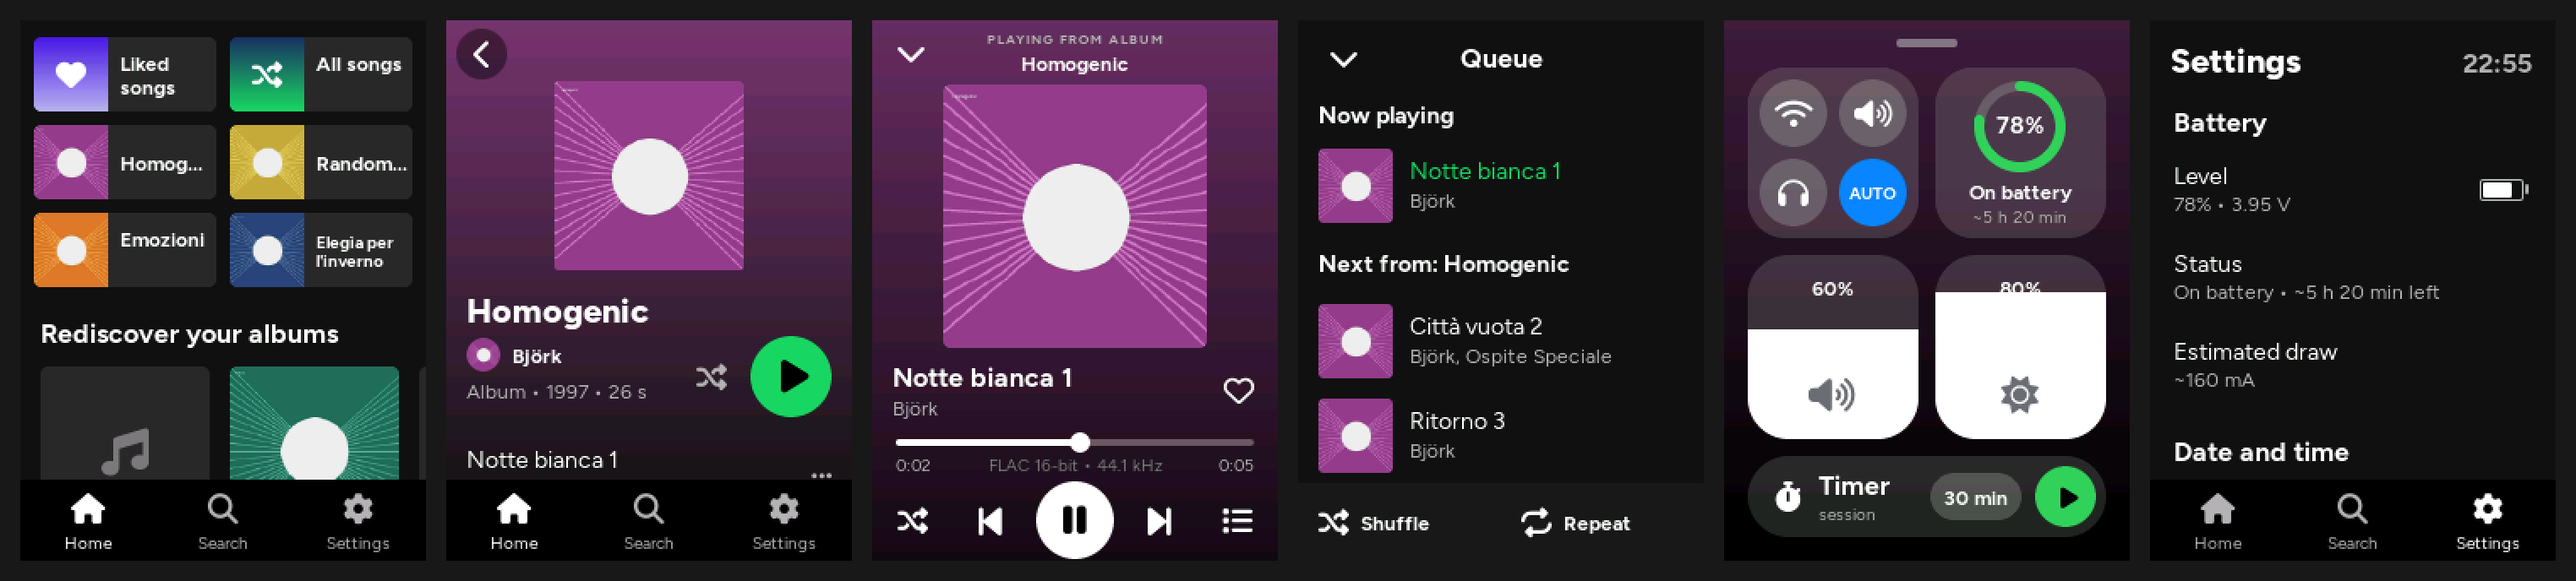
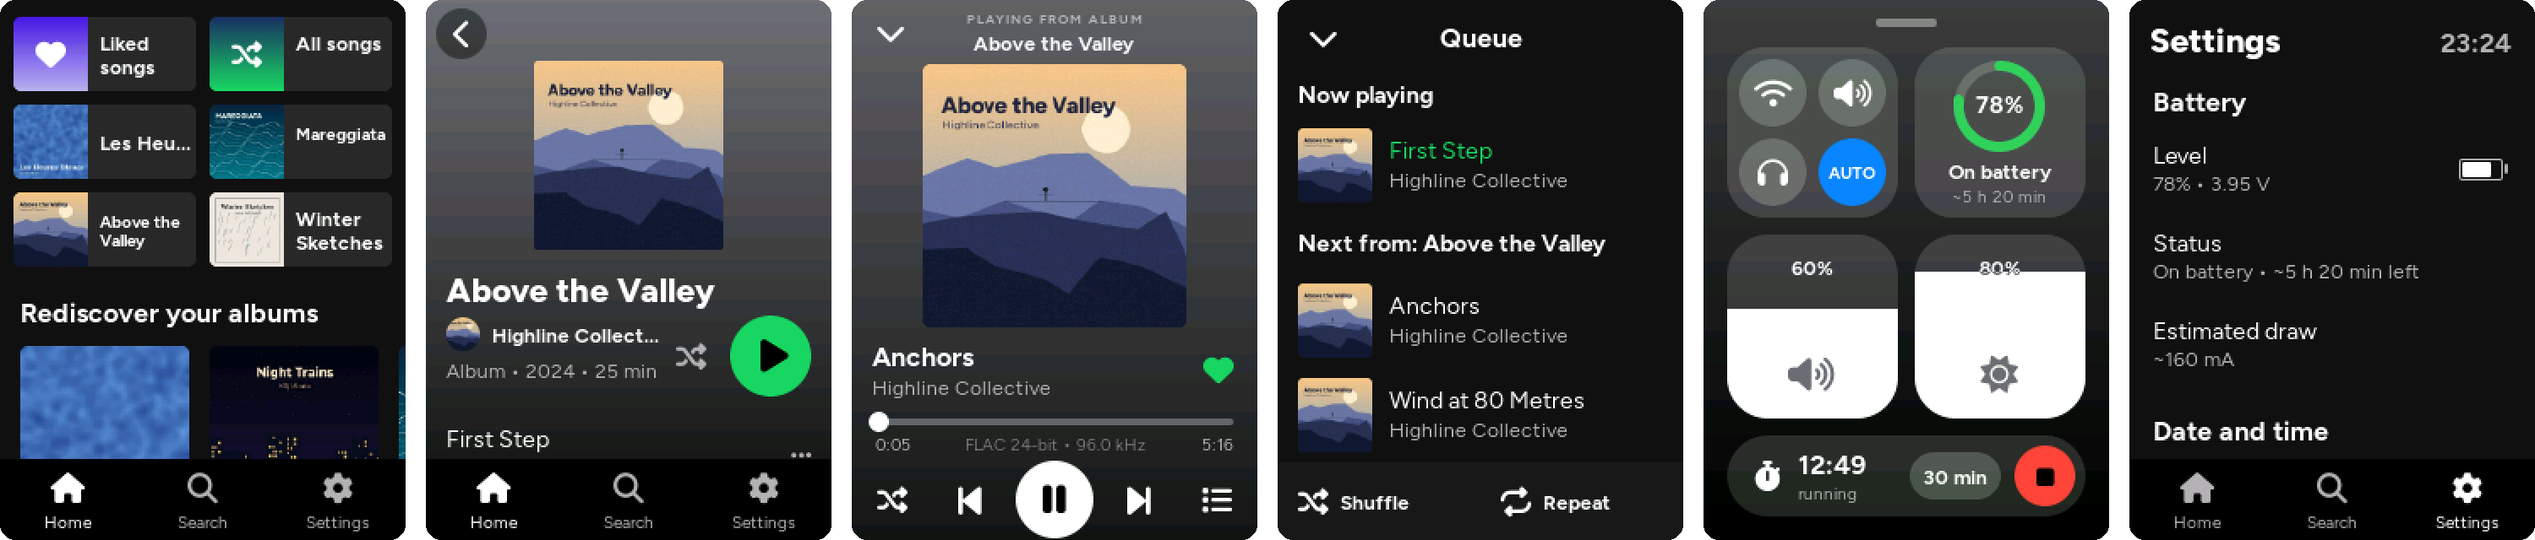
Docs: animated tour, player and web page screenshots
- docs/images/tour.gif: a 40 s tour of the player
- Player screenshots (browse, now playing, control center, transfer, timer)
  and web page screenshots (files, library, song editor, MusicBrainz, covers,
  playlists, phone), all with a made-up demo library
- README and wiki pages show them

Claude-Session: https://claude.ai/code/session_01WYQjV53YjHW77oDZ6A18Qb

diff --git a/docs/wiki/Web-Interface.md b/docs/wiki/Web-Interface.md
@@ -1,8 +1,12 @@
 The player has a small web server for managing the microSD card from a browser on your computer or phone: upload music, fix tags and covers, and make playlists.
 
+<img src="https://raw.githubusercontent.com/MrTartuf0/onda-flac-player/main/docs/images/web-library.png" alt="The Library tab">
+
 > The web page is in Italian for now. Below, each button is given as it appears on the page, with its meaning in brackets.
 
 ## Connecting
+
+<p align="center"><img src="https://raw.githubusercontent.com/MrTartuf0/onda-flac-player/main/docs/images/player-transfer.png" alt="File transfer on the player: on the home network, and as a hotspot with a QR code" width="480"></p>
 
 Open **Settings → File transfer** (or tap Wi-Fi in the control center).
 
@@ -17,6 +21,8 @@ Opening the page also sets the player's clock from your phone or computer (see [
 
 ## File tab
 
+<img src="https://raw.githubusercontent.com/MrTartuf0/onda-flac-player/main/docs/images/web-files.png" alt="The File tab">
+
 - Upload files or whole folders (**Carica file**, **Carica cartella**, or drag them onto the page), with progress and speed.
 - Create folders (**Nuova cartella**), rename, move, delete, download.
 - Hidden files such as `/.onda` are shown only on request (**File nascosti**).
@@ -27,6 +33,8 @@ All songs grouped by album, with technical details (bit depth, sample rate, leng
 
 ### Editing a song
 
+<img src="https://raw.githubusercontent.com/MrTartuf0/onda-flac-player/main/docs/images/web-track.png" alt="Song details and tag editor">
+
 Tap a row to see everything about the file: format, samples, average bitrate, encoder, audio MD5, metadata blocks and embedded pictures. You can edit title, artist, album, album artist, track and disc number, year and genre, plus any other tag (one per line, `KEY=value`).
 
 ### Editing an album (Modifica album)
@@ -34,6 +42,8 @@ Tap a row to see everything about the file: format, samples, average bitrate, en
 Change album, album artist, artist, year and genre for all songs at once, plus number and title of each song. **Numera i brani in ordine** numbers the songs 1, 2, 3… in the current order. Fields you leave unchanged are not written.
 
 ### Covers (Copertina)
+
+<img src="https://raw.githubusercontent.com/MrTartuf0/onda-flac-player/main/docs/images/web-cover.png" alt="Cover dialog">
 
 - Upload an image (PNG works too, also from a phone gallery).
 - **Usa quella incorporata**: use the picture embedded in the file.
@@ -44,6 +54,8 @@ The browser converts the image to a 600 px JPEG and the player saves it as `cove
 **Sistema copertine** (fix covers) does this in one go for every embedded cover the player can't read (PNG, progressive JPEG).
 
 ### MusicBrainz
+
+<img src="https://raw.githubusercontent.com/MrTartuf0/onda-flac-player/main/docs/images/web-musicbrainz.png" alt="Album editor filled in from MusicBrainz: pick the release and the fields are filled in">
 
 [MusicBrainz](https://musicbrainz.org) is a free, open music database. The page can use it in two ways:
 
@@ -63,7 +75,15 @@ Very large fields (for example huge embedded lyrics) are preserved even though t
 
 ## Playlist tab
 
+<img src="https://raw.githubusercontent.com/MrTartuf0/onda-flac-player/main/docs/images/web-playlist.png" alt="Playlist editor">
+
 Create, edit and delete playlists: search for songs, add them with **+**, reorder them with the arrows. They are saved as `.m3u8` files in `/Playlist` (existing playlists stay where they are) and appear on the player under **Search → Playlist** after the library is updated.
+
+## On a phone
+
+The page works on a phone too, so you can fix a tag or add a cover from the sofa.
+
+<p align="center"><img src="https://raw.githubusercontent.com/MrTartuf0/onda-flac-player/main/docs/images/web-phone.png" alt="The library and the song editor on a phone" width="520"></p>
 
 ## API
 

diff --git a/docs/wiki/Using-the-Player.md b/docs/wiki/Using-the-Player.md
@@ -1,5 +1,7 @@
 The interface has three tabs at the bottom (**Home**, **Search**, **Settings**), a mini player that is always visible while something is playing, and a full-screen **Now playing** view.
 
+<p align="center"><img src="https://raw.githubusercontent.com/MrTartuf0/onda-flac-player/main/docs/images/tour.gif" alt="A tour of the player" width="300"></p>
+
 ## Gestures
 
 | Gesture | Where | What it does |
@@ -13,6 +15,8 @@ The interface has three tabs at the bottom (**Home**, **Search**, **Settings**),
 | Long press | cover or title in Now playing | Song menu |
 
 ## Home
+
+<img src="https://raw.githubusercontent.com/MrTartuf0/onda-flac-player/main/docs/images/player-browse.png" alt="Home, album page, artist page and the library in Search">
 
 - **Liked songs** and **All songs** are always the first two tiles. Tap to open them; long press to start them in shuffle right away.
 - The other tiles are what you played recently: albums, artists, playlists, genres.
@@ -34,6 +38,8 @@ The **⋯** button on a song opens its menu: Play, Add to / Remove from Liked so
 
 ## Now playing
 
+<img src="https://raw.githubusercontent.com/MrTartuf0/onda-flac-player/main/docs/images/player-playing.png" alt="Now playing, the queue, the song menu and the device selector">
+
 Tap the mini player to open it. It shows the cover on a gradient in the album's colour, the position bar (drag to seek), the format (for example *FLAC 24-bit • 96 kHz*), shuffle, previous, play/pause, next and the queue button.
 
 - Tap the **cover** or the **title** to go to the album; tap the **artist** for the artist page.
@@ -45,6 +51,8 @@ Tap the mini player to open it. It shows the cover on a gradient in the album's 
 The queue shows the song now playing, the songs you added with *Add to queue*, and then the rest of the album or playlist. **Shuffle** and **Repeat** (all / one) are at the bottom. To close it, tap the header, swipe down on it, or tap the song now playing.
 
 ## Control center
+
+<img src="https://raw.githubusercontent.com/MrTartuf0/onda-flac-player/main/docs/images/player-control.png" alt="Control center with the session timer running, Settings, and the battery-low screen">
 
 Swipe up from the bottom edge. The panel follows your finger; close it by dragging the handle down, swiping down, tapping an empty area or with the back gesture.
 

diff --git a/README.md b/README.md
@@ -4,6 +4,10 @@
 
 onda plays FLAC files from the board's microSD card on the built-in speaker, or on headphones through an external PCM5102 DAC. When you plug the headphones in the sound moves to them; when you unplug them the music pauses, like on a phone. The touch interface is inspired by Spotify and written with LVGL 9.5, which is bundled in the project.
 
+<p align="center">
+  <img src="docs/images/tour.gif" width="320" alt="A tour of the player: home, album, now playing, queue, control center, search and settings">
+</p>
+
 ![Screenshots](docs/screenshots.png)
 
 ## Features
@@ -20,6 +24,19 @@ onda plays FLAC files from the board's microSD card on the built-in speaker, or 
 - **Clock** set from your phone or from the internet
 - **Resumes** the same song at the same position after power-off, and even after a crash
 - **English and Italian** interface
+
+## Web interface
+
+Turn on Wi-Fi from the player and manage the card from any browser: upload music, see what is missing, fix tags and covers, fill albums in from MusicBrainz, build playlists.
+
+<p>
+  <img src="docs/images/web-library.png" width="49%" alt="Library: every album with technical details and missing data highlighted">
+  <img src="docs/images/web-musicbrainz.png" width="49%" alt="Album editor filled in from MusicBrainz">
+</p>
+<p>
+  <img src="docs/images/web-track.png" width="49%" alt="Song editor with technical details and tags">
+  <img src="docs/images/web-playlist.png" width="49%" alt="Playlist editor">
+</p>
 
 ## What you need
 
@@ -55,7 +72,7 @@ Everything else is in the **[wiki](https://github.com/MrTartuf0/onda-flac-player
 - [Troubleshooting](https://github.com/MrTartuf0/onda-flac-player/wiki/Troubleshooting): crash reports, no sound, known limits
 - [Architecture](https://github.com/MrTartuf0/onda-flac-player/wiki/Architecture): how the firmware is organised
 
-The wiki pages live in [`docs/wiki`](docs/wiki) and are published automatically on every push to `main`.
+The wiki pages live in [`docs/wiki`](docs/wiki) and are published automatically on every push to `main`. Screenshots are taken from a desktop build of the interface with a made-up demo library.
 
 ## Third-party code and assets
 

diff --git a/docs/wiki/Home.md b/docs/wiki/Home.md
@@ -1,6 +1,10 @@
 **onda** is a pocket FLAC player built on the **Freenove ESP32-S3 Display (FNK0104B)**. It plays FLAC files from the board's microSD card on the built-in speaker, or on headphones through an external **PCM5102** DAC. The touch interface is inspired by Spotify and written with LVGL 9.5.
 
-![Screenshots](https://raw.githubusercontent.com/MrTartuf0/onda-flac-player/main/docs/screenshots.png)
+<p align="center"><img src="https://raw.githubusercontent.com/MrTartuf0/onda-flac-player/main/docs/images/tour.gif" alt="A tour of the player" width="320"></p>
+
+<img src="https://raw.githubusercontent.com/MrTartuf0/onda-flac-player/main/docs/screenshots.png" alt="Home, album, now playing, queue, control center and settings">
+
+*Screenshots come from a desktop build of the interface with a made-up demo library.*
 
 ## What it does
 

diff --git a/docs/wiki/Battery-and-Power.md b/docs/wiki/Battery-and-Power.md
@@ -28,6 +28,8 @@ When you turn it back on it continues from the same song and position, without t
 
 ## Battery
 
+<img src="https://raw.githubusercontent.com/MrTartuf0/onda-flac-player/main/docs/images/player-control.png" alt="Battery in the control center and in Settings, and the battery-low screen">
+
 With a 3.7 V LiPo on the **BAT** connector (tested with 1100 mAh), the level and charging status are in the control center. **Settings → Battery** also shows the voltage, the time to full and the estimated current draw.
 
 ### Charging

diff --git a/docs/wiki/Session-Timer-and-Clock.md b/docs/wiki/Session-Timer-and-Clock.md
@@ -2,6 +2,8 @@
 
 A stopwatch with a limit, made for not staying too long on a highline, but useful for any activity.
 
+<p align="center"><img src="https://raw.githubusercontent.com/MrTartuf0/onda-flac-player/main/docs/images/player-timer.png" alt="The control center with the session timer running" width="240"></p>
+
 It is the bottom row of the control center:
 
 - the elapsed time, with *running* or *over* underneath;
